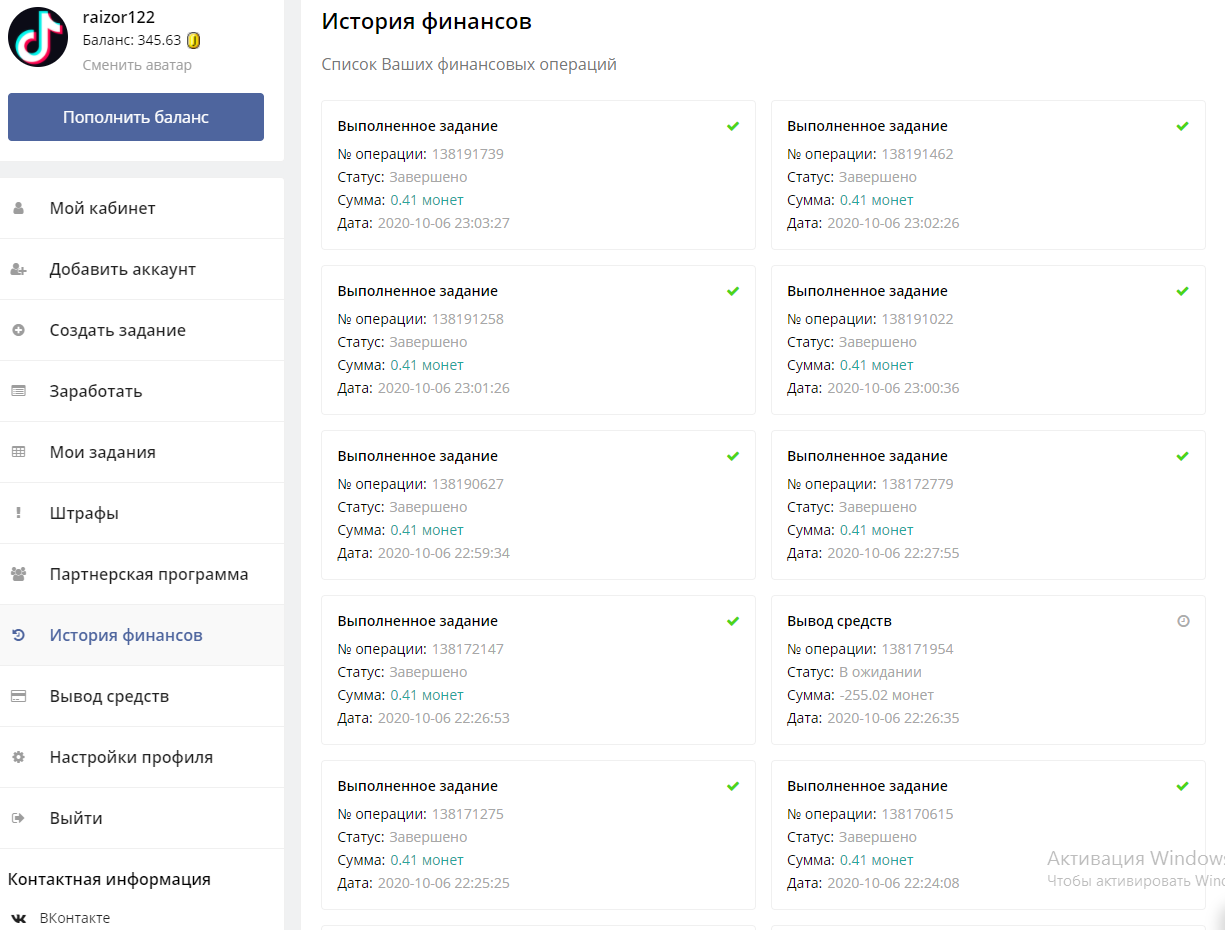
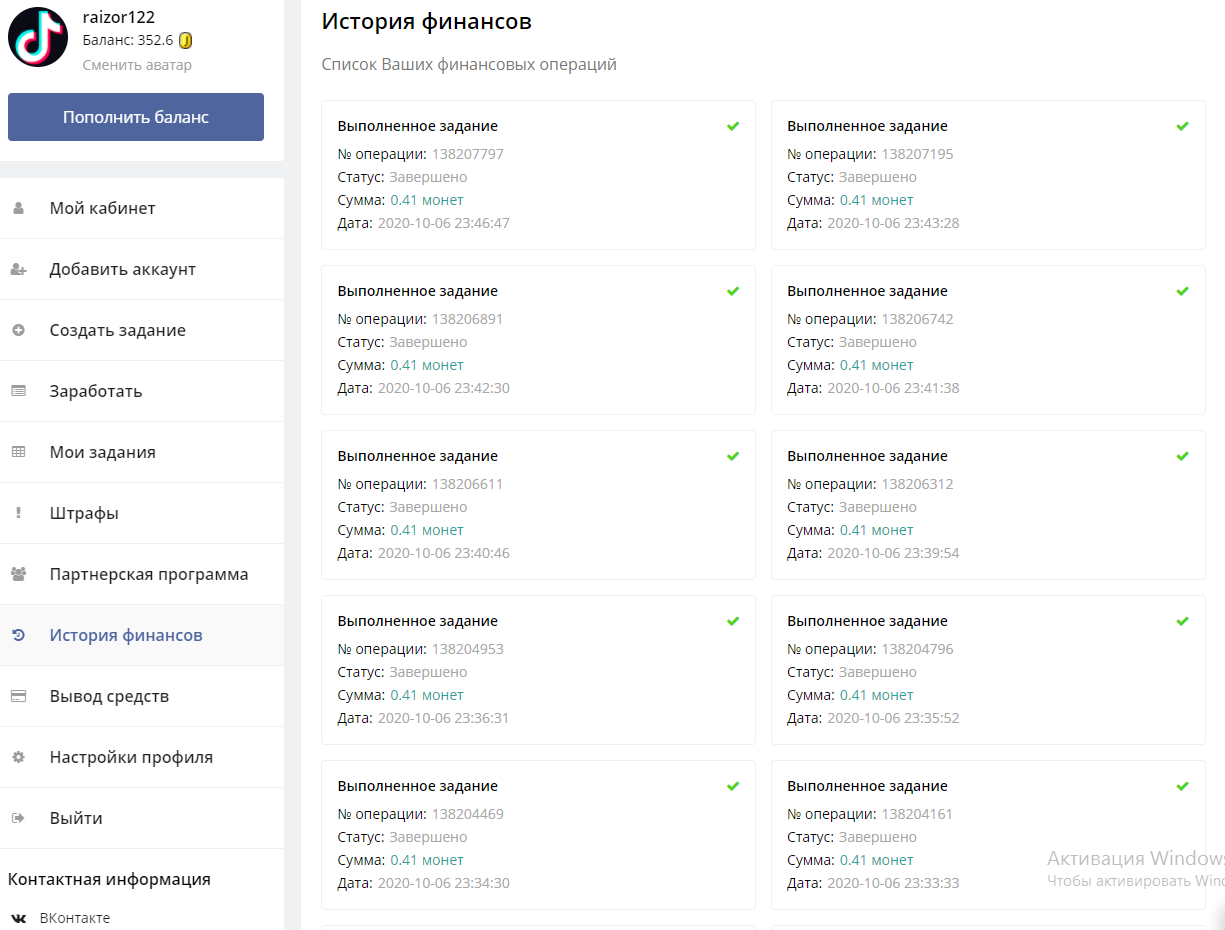
upd

diff --git a/data/bank.html b/data/bank.html
@@ -1,1 +1,1 @@
-<h2 style="color:#E0FFFF">366.1</h2>
+<h2 style="color:#E0FFFF">371.6</h2>

diff --git a/data/time.html b/data/time.html
@@ -1,1 +1,1 @@
-<h2 style="color:#E0FFFF">23:04</h2>
+<h2 style="color:#E0FFFF">23:46</h2>
